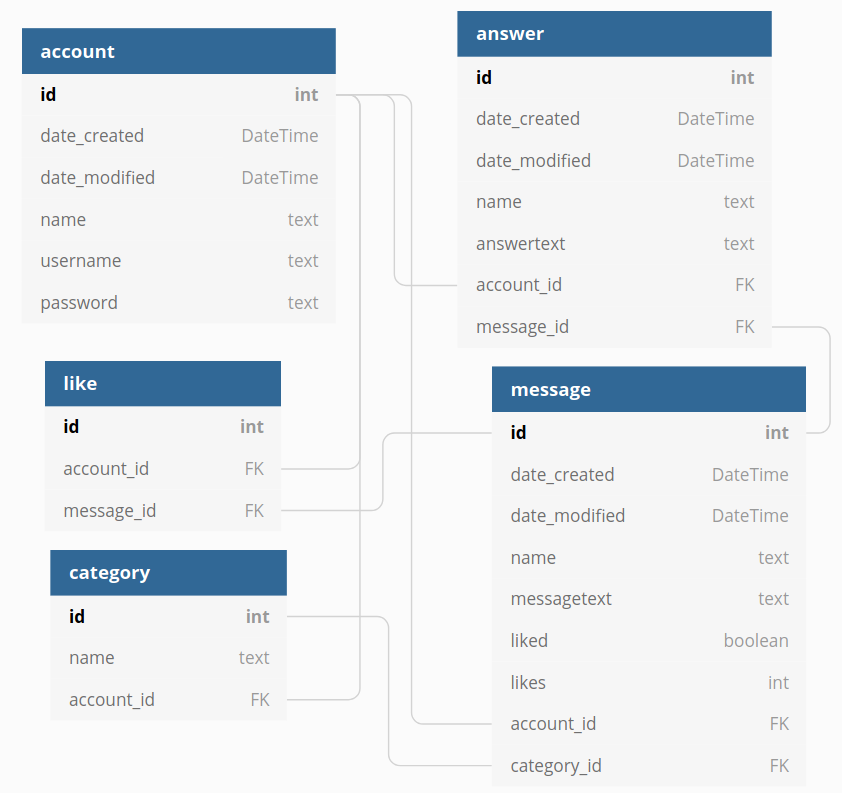
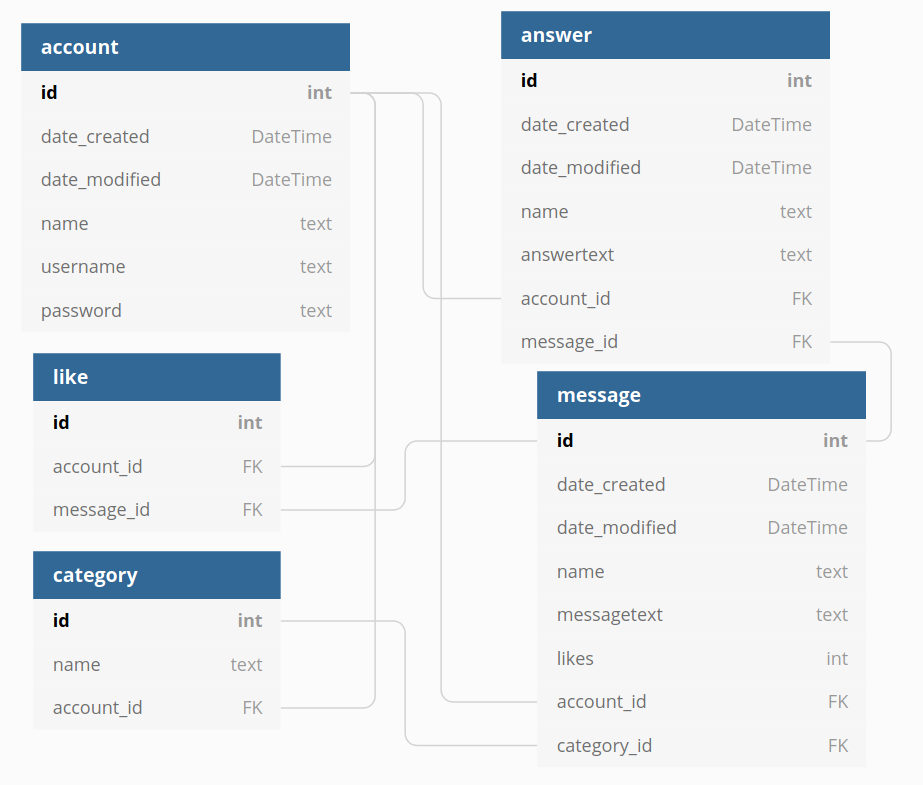
Updated the documentation and removed some unused code.

diff --git a/application/messages/views.py b/application/messages/views.py
@@ -9,7 +9,6 @@ from application.auth.models import User
 from application.categories.models import Category
 from application.answers.models import Answer
 from application.messages.forms import MessageForm, EditMessageForm
-from application.messages.forms import UserFilterForm
 
 @app.route("/messages", methods=["GET"])
 def messages_index():
@@ -23,33 +22,6 @@ def messages_view_message(message_id, writer_id, category_id):
     category = Category.query.filter_by(id=category_id).first(), 
     answers = Answer.query.filter_by(message_id=message_id),
     answerwriters = User.query.all())
-
-#YET TO BE COMPLETED
-
-@app.route("/messages/filter/user/")
-def messages_filteruser_form():
-    return render_template("messages/filteruserform.html", form = UserFilterForm())
-
-@app.route("/messages/filter/user", methods=["GET", "POST"])
-def messages_filteruser():
-    form = UserFilterForm(request.form)
-
-    if not form.validate():
-        return render_template("messages/filteruserform.html", form = form)
-    
-    number = form.user.data
-
-    order = text(SELECT )
-
-
-    person = User.query.filter_by(id=number).first()
-    
-    message = Message.query.filter_by(account_id=person.id)
-
-    return render_template("messages/filteruser.html", message)
-
-####
-
 
 
 @app.route("/messages/new/")

diff --git a/application/messages/models.py b/application/messages/models.py
@@ -11,7 +11,6 @@ class Message(db.Model):
 
     name = db.Column(db.String(144), nullable=False)
     messagetext = db.Column(db.String(144), nullable=False)
-    liked = db.Column(db.Boolean, nullable=False)
     likes = db.Column(db.Integer, nullable=False)
 
     account_id = db.Column(db.Integer, db.ForeignKey('account.id'),
@@ -22,5 +21,4 @@ class Message(db.Model):
     def __init__(self, name, messagetext):
         self.name = name
         self.messagetext = messagetext
-        self.liked = False
         self.likes = 0

diff --git a/application/likes/views.py b/application/likes/views.py
@@ -10,7 +10,6 @@ from application.likes.models import Like
 from application.answers.models import Answer
 from application.categories.models import Category
 from application.messages.forms import MessageForm, EditMessageForm
-from application.messages.forms import UserFilterForm
 
 @app.route("/likes/like/<message_id>", methods=["GET", "POST"])
 def likes_like(message_id):

diff --git a/application/answers/models.py b/application/answers/models.py
@@ -11,8 +11,6 @@ class Answer(db.Model):
 
     name = db.Column(db.String(144), nullable=False)
     answertext = db.Column(db.String(144), nullable=False)
-    liked = db.Column(db.Boolean, nullable=False)
-    likes = db.Column(db.Integer, nullable=False)
 
     account_id = db.Column(db.Integer, db.ForeignKey('account.id'),
                            nullable=False)

diff --git a/application/answers/views.py b/application/answers/views.py
@@ -8,7 +8,6 @@ from application.messages.models import Message
 from application.auth.models import User
 from application.answers.models import Answer
 from application.answers.forms import AnswerForm, EditAnswerForm
-from application.messages.forms import UserFilterForm
 
 @app.route("/answers/new/<message_id>", methods=["GET", "POST"])
 @login_required

diff --git a/application/messages/forms.py b/application/messages/forms.py
@@ -25,10 +25,3 @@ class EditMessageForm(FlaskForm):
 
     class Meta:
         csrf = False
-
-
-class UserFilterForm(FlaskForm):
-    user = StringField("Name of the user", [validators.Length(min=1)])
- 
-    class Meta:
-        csrf = False

diff --git a/documentation/Installation guide.md b/documentation/Installation guide.md
@@ -7,7 +7,7 @@ To download this project, click on the green "Clone or download"-button that can
 ## Unpacking and setting up the project
 Extract the project from the ZIP folder. Now use the terminal to navigate to the extracted folder. You should now be in the folder "Keskustelufoorumi-master". Use the commands below to install a virtual environment and the required dependencies to be able to run the project. If you do not have Python installed, please download it from the [Python downloads page](https://www.python.org/downloads/).
 
-**Creating a virtual environment**
+**Create a virtual environment**
 ```
 python3 -m venv venv
 ```
@@ -19,13 +19,15 @@ The virtual environment needs to be activated to run the application. It will be
 ```
 (venv) ~/Keskustelufoorumi$
 ```
+Always remember to activate the virtual environment if it it not activated before running the application.
 
 **Update `pip`, which is used to get the required dependencies**
 ```
 pip install --upgrade pip
 ```
 
-**Installing the project's dependencies**
+**Install the project's dependencies**
+The following commands will install required dependencies that the program needs for certain operations. This program uses Flask.
 ```
 pip install Flask
 ```
@@ -43,11 +45,11 @@ pip install flask-wtf
 ```
 
 ## Run the project
-After all dependencies have been installed you should be able to run the application.
+After all dependencies have been installed you should be able to run the application with the following command:
 ```
 python run.py
 ```
-If you open up a web browser and go to `http://localhost:5000/` you you should see the starting page with a greeting message.
+If you open a web browser and go to `http://localhost:5000/` you you should see the starting page with a greeting message.
 
 ## Setting up the app
 Once the app is running you have to set up the administrator account and create the default message category "No category".

diff --git a/documentation/CREATE TABLE sentences.md b/documentation/CREATE TABLE sentences.md
@@ -1,0 +1,77 @@
+The account table:
+```
+CREATE TABLE account (
+	id INTEGER NOT NULL, 
+	date_created DATETIME, 
+	date_modified DATETIME, 
+	name VARCHAR(144) NOT NULL, 
+	username VARCHAR(144) NOT NULL, 
+	password VARCHAR(144) NOT NULL, 
+	PRIMARY KEY (id), 
+	UNIQUE (name), 
+	UNIQUE (username)
+)
+```
+
+The category table:
+```
+CREATE TABLE category (
+	id INTEGER NOT NULL, 
+	date_created DATETIME, 
+	date_modified DATETIME, 
+	name VARCHAR(144) NOT NULL, 
+	account_id INTEGER NOT NULL, 
+	PRIMARY KEY (id), 
+	FOREIGN KEY(account_id) REFERENCES account (id)
+)
+```
+
+The message table:
+```
+CREATE TABLE message (
+	id INTEGER NOT NULL, 
+	date_created DATETIME, 
+	date_modified DATETIME, 
+	name VARCHAR(144) NOT NULL, 
+	messagetext VARCHAR(144) NOT NULL, 
+	liked BOOLEAN NOT NULL, 
+	likes INTEGER NOT NULL, 
+	account_id INTEGER NOT NULL, 
+	category_id INTEGER NOT NULL, 
+	PRIMARY KEY (id), 
+	CHECK (liked IN (0, 1)), 
+	FOREIGN KEY(account_id) REFERENCES account (id), 
+	FOREIGN KEY(category_id) REFERENCES category (id)
+)
+```
+
+The answer table:
+```
+CREATE TABLE answer (
+	id INTEGER NOT NULL, 
+	date_created DATETIME, 
+	date_modified DATETIME, 
+	name VARCHAR(144) NOT NULL, 
+	answertext VARCHAR(144) NOT NULL, 
+	liked BOOLEAN NOT NULL, 
+	likes INTEGER NOT NULL, 
+	account_id INTEGER NOT NULL, 
+	message_id INTEGER NOT NULL, 
+	PRIMARY KEY (id), 
+	CHECK (liked IN (0, 1)), 
+	FOREIGN KEY(account_id) REFERENCES account (id), 
+	FOREIGN KEY(message_id) REFERENCES message (id)
+)
+```
+
+The likes table:
+```
+CREATE TABLE "like" (
+	id INTEGER NOT NULL, 
+	account_id INTEGER NOT NULL, 
+	message_id INTEGER NOT NULL, 
+	PRIMARY KEY (id), 
+	FOREIGN KEY(account_id) REFERENCES account (id), 
+	FOREIGN KEY(message_id) REFERENCES message (id)
+)
+```

diff --git a/documentation/User manual.md b/documentation/User manual.md
@@ -25,4 +25,4 @@ This feature requires the user to be signed in. When this button is clicked the 
 This feature requires the user to be signed in. When this button is clicked the user will be taken to a form where they can create a new message category that will appear as an alternative when writing a message.
 
 ## Administrators
-As an administrator you have the option to delete a message or answer even if it has not been written by you. You do, however, not have access to editing other users' messages.
+As an administrator you have the option to delete a message or answer even if it has not been written by you. You cannot, however, edit other users' messages.

diff --git a/README.md b/README.md
@@ -5,8 +5,8 @@ In this project I will create a chat forum where the user can sign in and send m
 Users will be able to
 * [ ] create, edit and delete an account
 * [x] sign in
-* [x] add and edit messages
-* [ ] create and edit message categories
+* [x] add, edit and delete messages
+* [x] create message categories
 * [ ] filter messages by their category
 * [x] add answers to other messages
 * [x] delete their own messages
